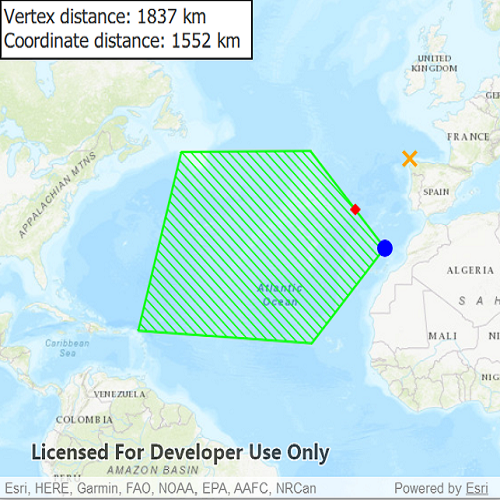
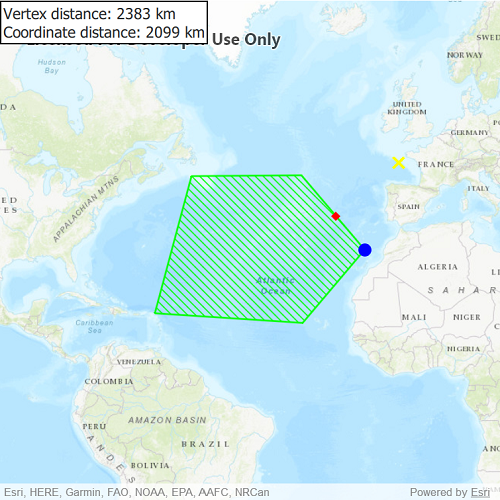
Edited screenshot and README to have yellow "x" (#1031)

diff --git a/ArcGISRuntimeSDKQt_CppSamples/Geometry/NearestVertex/README.md b/ArcGISRuntimeSDKQt_CppSamples/Geometry/NearestVertex/README.md
@@ -10,7 +10,7 @@ Determine the shortest distance between a location and the boundary of an area. 
 
 ## How to use the sample
 
-Click anywhere on the map. An orange cross will show at that location. A blue circle will show the polygon's nearest vertex to the point that was clicked. A red diamond will appear at the coordinate on the geometry that is nearest to the point that was clicked. If clicked inside the geometry, the red and orange markers will overlap. The information box showing distance between the clicked point and the nearest vertex/coordinate will be updated with every new location clicked.
+Click anywhere on the map. A yellow cross will show at that location. A blue circle will show the polygon's nearest vertex to the point that was clicked. A red diamond will appear at the coordinate on the geometry that is nearest to the point that was clicked. If clicked inside the geometry, the red and orange markers will overlap. The information box showing distance between the clicked point and the nearest vertex/coordinate will be updated with every new location clicked.
 
 ## How it works
 

diff --git a/ArcGISRuntimeSDKQt_QMLSamples/Geometry/NearestVertex/README.md b/ArcGISRuntimeSDKQt_QMLSamples/Geometry/NearestVertex/README.md
@@ -10,7 +10,7 @@ Determine the shortest distance between a location and the boundary of an area. 
 
 ## How to use the sample
 
-Click anywhere on the map. An yellow cross will show at that location. A blue circle will show the polygon's nearest vertex to the point that was clicked. A red diamond will appear at the coordinate on the geometry that is nearest to the point that was clicked. If clicked inside the geometry, the red and yellow markers will overlap. The information box showing distance between the clicked point and the nearest vertex/coordinate will be updated with every new location clicked.
+Click anywhere on the map. A yellow cross will show at that location. A blue circle will show the polygon's nearest vertex to the point that was clicked. A red diamond will appear at the coordinate on the geometry that is nearest to the point that was clicked. If clicked inside the geometry, the red and yellow markers will overlap. The information box showing distance between the clicked point and the nearest vertex/coordinate will be updated with every new location clicked.
 
 ## How it works
 
